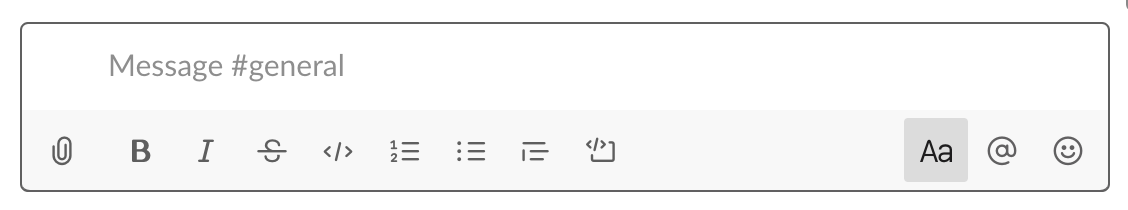
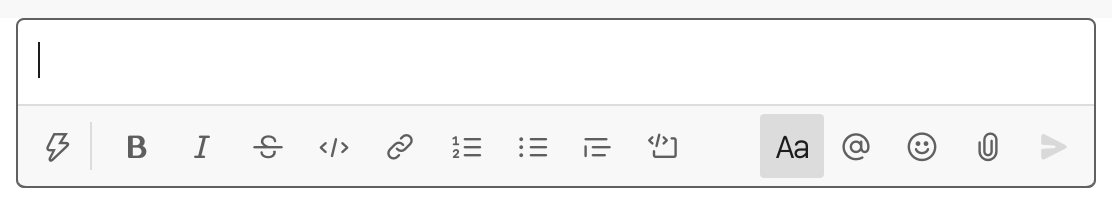
Update Slack compatibility

diff --git a/_tools/slack.md b/_tools/slack.md
@@ -69,12 +69,12 @@ The Slack message interface provides support for the following the Markdown elem
     </tr>
     <tr>
       <td><a href="/basic-syntax#ordered-lists">Ordered Lists</a></td>
-      <td class="table-success">Yes</td>
+      <td class="table-danger">No</td>
       <td></td>
     </tr>
     <tr>
       <td><a href="/basic-syntax#unordered-lists">Unordered Lists</a></td>
-      <td class="table-success">Yes</td>
+      <td class="table-danger">No</td>
       <td></td>
     </tr>
     <tr>
@@ -149,7 +149,7 @@ The Slack message interface provides support for the following the Markdown elem
     </tr>
     <tr>
       <td><a href="/extended-syntax/#disabling-automatic-url-linking">Disabling Automatic URL Linking</a></td>
-      <td class="table-success">Yes</td>
+      <td class="table-danger">No</td>
       <td></td>
     </tr>
     <tr>
@@ -168,9 +168,9 @@ The Slack message interface provides support for the following the Markdown elem
 
 The Slack post interface is editor that allows you to create a document for sharing in Slack. This is a live editor, which means you will see the actual formatting immediately after you type Markdown formatted text. For example, if you type `_test_`, the underscores will disappear and you'll see the word "test" in italics.
 
-To create a post, click the paperclip icon and select **Post** from the **Create new** menu, as shown below.
+To create a post, click the shortcuts icon and select **Create a Post** as shown below.
 
-<img src="/assets/images/tools/slack-posts.png" class="img-fluid" style="width:70%" alt="Slack markdown in the post interface">
+<img src="/assets/images/tools/slack-posts.png" class="img-fluid" style="width:50%" alt="Slack markdown in the post interface">
 
 #### Slack Markdown Support in Posts
 
